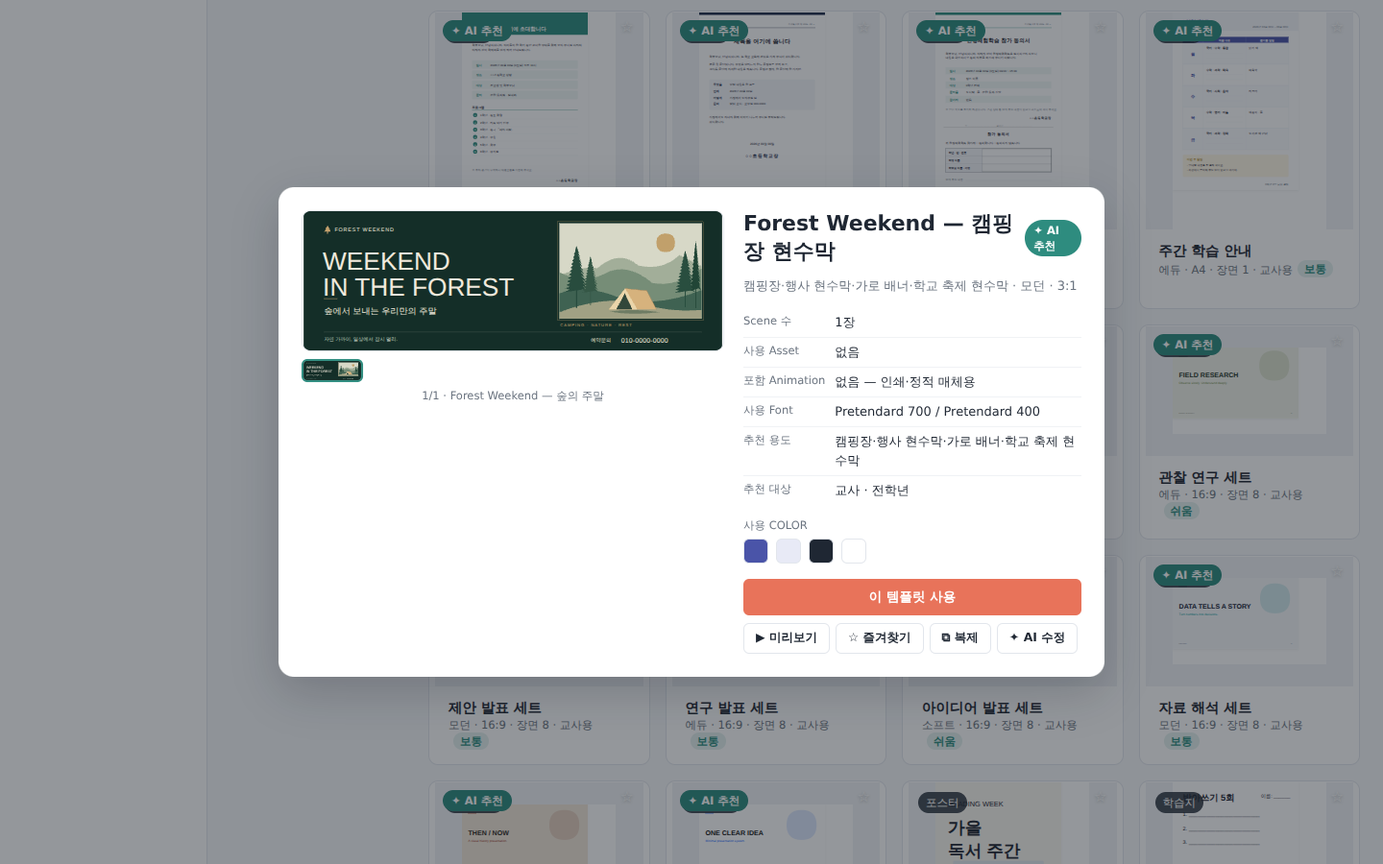
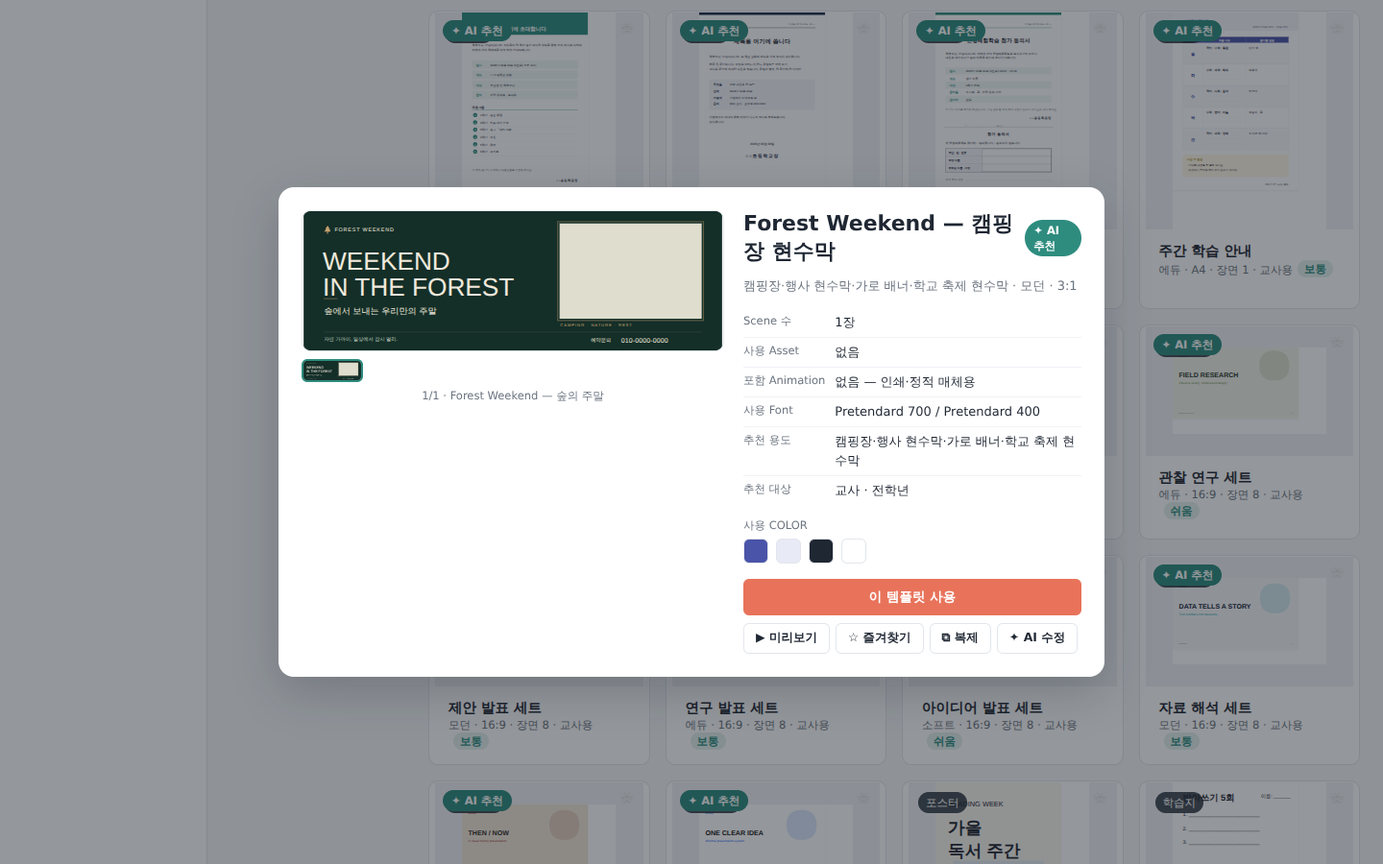
케이메이커 R154-2: Forest Weekend 기본 사진(forest-camp-dusk.jpg, 준호 제공) — 패키지 상대 src 지원·풍경 조각 기본 숨김(레이어 👁 복구); test-round154 38/38 · shot154 13/13

Changed region(s): [[0.4062, 0.2489, 0.5312, 0.3733], [0.25, 0.4044, 0.2812, 0.4356]]

diff --git a/maker-playground/data/tplpkg-baked.js b/maker-playground/data/tplpkg-baked.js
@@ -5,7 +5,7 @@
    로드되면 Template Engine(MK_TPL.register)에 등록돼 Templates·홈·만들기에 선다.
    ============================================================ */
 window.MK_TPLPKG_BAKED = (() => {
-  const ROWS = [{"src":{"templateId":"pkg-forest-weekend-banner","title":"Forest Weekend — 캠핑장 현수막","description":"캠핑장·행사 현수막·가로 배너·학교 축제 현수막","contentType":"poster","category":"포스터","style":"모던","styleEn":"Premium","ratio":"3:1","difficulty":"쉬움","targetUser":"teacher","gradeRange":"전학년","uses":"캠핑장·행사 현수막·가로 배너·학교 축제 현수막","tags":["현수막","캠핑","배너","3:1"],"recent":false,"pkg":{"dir":"forest-weekend","schema":"kedu.editable-template/1.0","version":"1.0.0","preview":"/maker-playground/assets/tplpkg/forest-weekend/preview.png"},"scenes":[{"id":"s1","name":"Forest Weekend — 숲의 주말","width":3000,"height":1000,"duration":5,"background":"#142E28","transition":"fade","order":0,"elements":[{"kind":"image","x":0,"y":0,"w":100,"h":100,"label":"배경 · 숲색","aid":"background","fill":"#142E28"},{"kind":"image","x":61.17,"y":8.8,"w":34,"h":68.4,"label":"사진 · 클릭하여 교체","aid":"photo-placeholder","role":"photo-slot","fill":"#DFDDCD","fit":"cover"},{"kind":"image","x":61.17,"y":8.8,"w":34,"h":68.4,"label":"풍경 · 하늘","aid":"landscape-sky","fallbackFor":"photo-placeholder","grp":"g-forest-weekend-banner-photo-placeholder","fill":"#D7D8C7"},{"kind":"image","x":84.33,"y":16,"w":4.47,"h":13.4,"label":"풍경 · 햇빛","aid":"landscape-sun","fallbackFor":"photo-placeholder","grp":"g-forest-weekend-banner-photo-placeholder","fill":"#C1A06B","radius":999},{"kind":"vector","x":61.17,"y":30,"w":34,"h":47.2,"label":"풍경 · 먼 능선","aid":"mountains-far","fallbackFor":"photo-placeholder","grp":"g-forest-weekend-banner-photo-placeholder","role":"decor","vec":{"vb":[0,0,1020,472],"body":"<g><path d=\"M0 160 Q180 90 270 110 Q430 -30 565 90 Q740 130 860 15 L1020 95 L1020 472 L0 472 Z\" fill=\"#A2AE99\"/></g>","defs":"","pfx":""}},{"kind":"vector","x":61.17,"y":38.5,"w":34,"h":38.7,"label":"풍경 · 중간 능선","aid":"mountains-mid","fallbackFor":"photo-placeholder","grp":"g-forest-weekend-banner-photo-placeholder","role":"decor","vec":{"vb":[0,0,1020,387],"body":"<g><path d=\"M0 55 Q185 140 320 65 Q480 -25 665 130 Q835 165 1020 25 L1020 387 L0 387 Z\" fill=\"#768D77\"/></g>","defs":"","pfx":""}},{"kind":"vector","x":61.17,"y":52.6,"w":34,"h":24.6,"label":"풍경 · 가까운 언덕","aid":"mountains-near","fallbackFor":"photo-placeholder","grp":"g-forest-weekend-banner-photo-placeholder","role":"decor","vec":{"vb":[0,0,1020,246],"body":"<g><path d=\"M0 65 Q140 3 350 67 Q650 190 1020 40 L1020 246 L0 246 Z\" fill=\"#3F6252\"/></g>","defs":"","pfx":""}},{"kind":"vector","x":61.17,"y":63.4,"w":34,"h":13.8,"label":"풍경 · 캠핑 자리","aid":"meadow","fallbackFor":"photo-placeholder","grp":"g-forest-weekend-banner-photo-placeholder","role":"decor","vec":{"vb":[0,0,1020,138],"body":"<g><path d=\"M0 91 Q310 -27 560 22 Q790 97 1020 75 L1020 138 L0 138 Z\" fill=\"#A1A184\"/></g>","defs":"","pfx":""}},{"kind":"vector","x":62.33,"y":25,"w":5.83,"h":44.5,"label":"풍경 · 소나무 1","aid":"pine-1","fallbackFor":"photo-placeholder","grp":"g-forest-weekend-banner-photo-placeholder","role":"decor","vec":{"vb":[0,0,175,445],"body":"<g><path d=\"M84.35 151.3 L90.65 151.3 L91.875 445 L83.125 445 Z\" fill=\"#284C3E\"/><path d=\"M87.50 0.00 L81.88 13.80 L77.81 32.04 L77.37 38.72 L70.03 56.96 L73.20 63.64 L62.84 81.88 L69.24 88.56 L56.01 106.80 L65.42 113.48 L49.44 131.72 L61.72 138.40 L43.06 156.64 L58.11 163.31 L36.83 181.56 L54.58 188.24 L30.74 206.48 L51.12 213.16 L24.77 231.40 L47.71 238.08 L18.89 256.32 L44.35 263.00 L13.10 281.24 L41.04 287.92 L7.39 306.16 L37.77 312.83 L1.75 331.08 L134.66 312.39 L166.23 327.52 L131.56 287.47 L162.59 302.60 L128.42 262.55 L155.83 277.68 L125.24 237.63 L154.83 252.76 L122.00 212.71 L148.14 227.84 L118.72 187.79 L141.76 202.92 L115.37 162.87 L134.45 178.00 L111.94 137.95 L130.29 153.08 L108.43 113.03 L123.88 128.16 L104.82 88.11 L117.47 103.24 L101.06 63.19 L111.99 78.32 L97.11 38.27 L104.28 53.40 L92.83 13.35 L96.71 28.48 Z\" fill=\"#284C3E\"/></g>","defs":"","pfx":""}},{"kind":"vector","x":66.5,"y":32.6,"w":4.17,"h":35,"label":"풍경 · 소나무 2","aid":"pine-2","fallbackFor":"photo-placeholder","grp":"g-forest-weekend-banner-photo-placeholder","role":"decor","vec":{"vb":[0,0,125,350],"body":"<g><path d=\"M60.25 119.00000000000001 L64.75 119.00000000000001 L65.625 350 L59.375 350 Z\" fill=\"#355746\"/><path d=\"M62.50 0.00 L58.49 10.85 L55.58 25.20 L55.26 30.45 L50.02 44.80 L52.29 50.05 L44.89 64.40 L49.46 69.65 L40.01 84.00 L46.73 89.25 L35.31 103.60 L44.09 108.85 L30.75 123.20 L41.51 128.45 L26.31 142.80 L38.99 148.05 L21.96 162.40 L36.51 167.65 L17.69 182.00 L34.08 187.25 L13.49 201.60 L31.68 206.85 L9.36 221.20 L29.31 226.45 L5.28 240.80 L26.98 246.05 L1.25 260.40 L96.19 245.70 L119.57 257.60 L93.97 226.10 L115.55 238.00 L91.73 206.50 L111.14 218.40 L89.45 186.90 L109.43 198.80 L87.14 167.30 L103.34 179.20 L84.80 147.70 L99.97 159.60 L82.40 128.10 L97.44 140.00 L79.96 108.50 L93.26 120.40 L77.45 88.90 L89.60 100.80 L74.87 69.30 L84.95 81.20 L72.19 49.70 L78.59 61.60 L69.36 30.10 L74.63 42.00 L66.31 10.50 L69.30 22.40 Z\" fill=\"#355746\"/></g>","defs":"","pfx":""}},{"kind":"vector","x":88.67,"y":28.5,"w":5.13,"h":40.5,"label":"풍경 · 소나무 3","aid":"pine-3","fallbackFor":"photo-placeholder","grp":"g-forest-weekend-banner-photo-placeholder","role":"decor","vec":{"vb":[0,0,154,405],"body":"<g><path d=\"M74.228 137.70000000000002 L79.772 137.70000000000002 L80.85 405 L73.15 405 Z\" fill=\"#294E3F\"/><path d=\"M77.00 0.00 L72.05 12.55 L68.47 29.16 L68.08 35.23 L61.63 51.84 L64.42 57.92 L55.30 74.52 L60.93 80.59 L49.29 97.20 L57.57 103.28 L43.50 119.88 L54.32 125.96 L37.89 142.56 L51.14 148.63 L32.41 165.24 L48.03 171.31 L27.06 187.92 L44.98 194.00 L21.80 210.60 L41.98 216.68 L16.62 233.28 L39.03 239.36 L11.53 255.96 L36.11 262.04 L6.50 278.64 L33.23 284.72 L1.54 301.32 L118.50 284.31 L151.37 298.08 L115.77 261.63 L147.47 275.40 L113.01 238.95 L142.46 252.72 L110.21 216.27 L133.45 230.04 L107.36 193.59 L129.51 207.36 L104.47 170.91 L125.43 184.68 L101.52 148.23 L119.58 162.00 L98.51 125.55 L114.84 139.32 L95.42 102.87 L109.05 116.64 L92.24 80.19 L104.32 93.96 L88.93 57.51 L97.61 71.28 L85.45 34.83 L91.63 48.60 L81.69 12.15 L84.78 25.92 Z\" fill=\"#294E3F\"/></g>","defs":"","pfx":""}},{"kind":"vector","x":92.33,"y":21.6,"w":2.83,"h":48,"label":"풍경 · 소나무 4","aid":"pine-4","fallbackFor":"photo-placeholder","grp":"g-forest-weekend-banner-photo-placeholder","role":"decor","vec":{"vb":[0,0,85,480],"body":"<g><path d=\"M40.97 163.20000000000002 L44.03 163.20000000000002 L44.625 480 L40.375 480 Z\" fill=\"#214536\"/><path d=\"M42.50 0.00 L39.77 14.88 L37.79 34.56 L37.58 41.76 L34.02 61.44 L35.55 68.64 L30.52 88.32 L33.63 95.52 L27.21 115.20 L31.78 122.40 L24.01 142.08 L29.98 149.28 L20.91 168.96 L28.23 176.16 L17.89 195.84 L26.51 203.04 L14.93 222.72 L24.83 229.92 L12.03 249.60 L23.17 256.80 L9.18 276.48 L21.54 283.68 L6.36 303.36 L19.93 310.56 L3.59 330.24 L18.34 337.44 L0.85 357.12 L65.41 336.96 L81.19 353.28 L63.90 310.08 L77.91 326.40 L62.38 283.20 L78.14 299.52 L60.83 256.32 L75.70 272.64 L59.26 229.44 L71.29 245.76 L57.66 202.56 L69.69 218.88 L56.04 175.68 L65.78 192.00 L54.37 148.80 L63.63 165.12 L52.67 121.92 L59.44 138.24 L50.91 95.04 L56.82 111.36 L49.09 68.16 L53.65 84.48 L47.17 41.28 L50.46 57.60 L45.09 14.40 L47.08 30.72 Z\" fill=\"#214536\"/></g>","defs":"","pfx":""}},{"kind":"vector","x":73.17,"y":70.5,"w":12,"h":3,"label":"풍경 · 텐트 그림자","aid":"tent-shadow","fallbackFor":"photo-placeholder","grp":"g-forest-weekend-banner-photo-placeholder","role":"decor","vec":{"vb":[0,0,360,30],"body":"<g><path d=\"M0 16 Q160 -10 360 20 Q155 45 0 16 Z\" fill=\"#6E7C64\"/></g>","defs":"","pfx":""}},{"kind":"vector","x":73,"y":55.5,"w":11.33,"h":16,"label":"풍경 · 텐트 천","aid":"tent-roof","fallbackFor":"photo-placeholder","grp":"g-forest-weekend-banner-photo-placeholder","role":"decor","vec":{"vb":[0,0,340,160],"body":"<g><path d=\"M0 150 L116 0 L271 16 L340 150 Z\" fill=\"#D6B27D\"/></g>","defs":"","pfx":""}},{"kind":"vector","x":73,"y":55.5,"w":6.77,"h":16,"label":"풍경 · 텐트 전면","aid":"tent-front","fallbackFor":"photo-placeholder","grp":"g-forest-weekend-banner-photo-placeholder","role":"decor","vec":{"vb":[0,0,203,160],"body":"<g><path d=\"M0 150 L116 0 L203 150 Z\" fill=\"#EAD5AA\"/></g>","defs":"","pfx":""}},{"kind":"vector","x":74.73,"y":59,"w":3.83,"h":11.5,"label":"풍경 · 텐트 입구","aid":"tent-door","fallbackFor":"photo-placeholder","grp":"g-forest-weekend-banner-photo-placeholder","role":"decor","vec":{"vb":[0,0,115,115],"body":"<g><path d=\"M0 115 L62 0 L115 115 Z\" fill=\"#31473A\"/></g>","defs":"","pfx":""}},{"kind":"vector","x":76.87,"y":55.5,"w":7.47,"h":15,"label":"풍경 · 텐트 솔기","aid":"tent-seam","fallbackFor":"photo-placeholder","grp":"g-forest-weekend-banner-photo-placeholder","role":"decor","vec":{"vb":[0,0,224,150],"body":"<g><path d=\"M0 0 L155 16 L224 150\" fill=\"none\" stroke=\"#AB895D\" stroke-width=\"3\"/></g>","defs":"","pfx":""}},{"kind":"shape","x":60.73,"y":7.5,"w":34.87,"h":71,"label":"사진 · 테두리","aid":"photo-border","shape":"rect","fill":"none","stroke":"#C5A16D","strokeWidth":2},{"kind":"vector","x":4.83,"y":10.5,"w":1.67,"h":5.8,"label":"장식 · 숲 심볼","aid":"brand-mark","role":"decor","vec":{"vb":[0,0,50,58],"body":"<g><path d=\"M25 0 L43 22 L34 22 L50 42 L28 42 L28 58 L22 58 L22 42 L0 42 L16 22 L7 22 Z\" fill=\"#C5A16D\"/></g>","defs":"","pfx":""}},{"kind":"text","x":7.37,"y":11.2,"w":45,"h":5.6,"label":"캠핑장 이름","aid":"brand","text":"FOREST WEEKEND","size":3.7,"weight":400,"color":"#F1EADC","align":"left","font":"Noto Sans KR","letterSpacing":0.16,"lineHeight":1.04},{"kind":"text","x":4.53,"y":25.8,"w":52.5,"h":41.4,"label":"메인 제목","aid":"title","text":"WEEKEND\nIN THE FOREST","size":18.1,"weight":400,"color":"#F1EADC","align":"left","font":"Cormorant Garamond","lineHeight":1.04},{"kind":"text","x":4.83,"y":68,"w":51.67,"h":9,"label":"한글 소개","aid":"subtitle","text":"숲에서 보내는 우리만의 주말","size":6.3,"weight":400,"color":"#F1EADC","align":"left","font":"Noto Sans KR","lineHeight":1.04},{"kind":"image","x":4.83,"y":62.7,"w":3.17,"h":0.3,"label":"장식 · 짧은 선","aid":"accent-line","fill":"#C5A16D"},{"kind":"text","x":61.33,"y":80.2,"w":33.83,"h":4.1,"label":"사진 아래 문구","aid":"photo-caption","text":"CAMPING · NATURE · REST","size":2.9,"weight":400,"color":"#C5A16D","align":"left","font":"Noto Sans KR","letterSpacing":0.21,"lineHeight":1.04},{"kind":"image","x":4.83,"y":86.6,"w":90.33,"h":0.2,"label":"하단 · 구분선","aid":"footer-line","fill":"#53675B"},{"kind":"text","x":4.83,"y":90,"w":36.67,"h":5.8,"label":"하단 안내 문구","aid":"footer-note","text":"자연 가까이, 일상에서 잠시 멀리.","size":3.6,"weight":400,"color":"#BCC8BB","align":"left","font":"Noto Sans KR","lineHeight":1.04},{"kind":"text","x":68.67,"y":90.6,"w":6.67,"h":5.8,"label":"예약 안내","aid":"reservation-label","text":"예약문의","size":3.6,"weight":400,"color":"#F1EADC","align":"left","font":"Noto Sans KR","lineHeight":1.04},{"kind":"text","x":75.93,"y":90,"w":19.33,"h":8.2,"label":"예약 전화번호","aid":"reservation-phone","text":"010-0000-0000","size":4.8,"weight":400,"color":"#F1EADC","align":"left","font":"Noto Sans KR","letterSpacing":0.02,"lineHeight":1.04}],"groups":{"g-forest-weekend-banner-photo-placeholder":{"name":"풍경 · 사진","aid":"photo-placeholder","kind":"asset","fallbackFor":"photo-placeholder"}}}]},"ov":{"styleId":"st-modern","animationId":"an-none","assetIds":[],"ai":{"recommended":true,"tags":["현수막","캠핑","배너","3:1"],"hints":["제목 두 줄은 영문 세리프 그대로, 한 줄 소개만 바꿔도 끝","오른쪽 사진 자리에 사진을 올리면 그려진 풍경은 자동으로 숨어요(레이어에서 다시 켤 수 있어요)"]}}}];
+  const ROWS = [{"src":{"templateId":"pkg-forest-weekend-banner","title":"Forest Weekend — 캠핑장 현수막","description":"캠핑장·행사 현수막·가로 배너·학교 축제 현수막","contentType":"poster","category":"포스터","style":"모던","styleEn":"Premium","ratio":"3:1","difficulty":"쉬움","targetUser":"teacher","gradeRange":"전학년","uses":"캠핑장·행사 현수막·가로 배너·학교 축제 현수막","tags":["현수막","캠핑","배너","3:1"],"recent":false,"pkg":{"dir":"forest-weekend","schema":"kedu.editable-template/1.0","version":"1.0.0","preview":"/maker-playground/assets/tplpkg/forest-weekend/preview.png"},"scenes":[{"id":"s1","name":"Forest Weekend — 숲의 주말","width":3000,"height":1000,"duration":5,"background":"#142E28","transition":"fade","order":0,"elements":[{"kind":"image","x":0,"y":0,"w":100,"h":100,"label":"배경 · 숲색","aid":"background","fill":"#142E28"},{"kind":"image","x":61.17,"y":8.8,"w":34,"h":68.4,"label":"사진 · 클릭하여 교체","aid":"photo-placeholder","role":"photo-slot","fill":"#DFDDCD","fit":"cover","src":"/maker-playground/assets/tplpkg/forest-weekend/assets/photos/forest-camp-dusk.jpg"},{"kind":"image","x":61.17,"y":8.8,"w":34,"h":68.4,"label":"풍경 · 하늘","aid":"landscape-sky","fallbackFor":"photo-placeholder","grp":"g-forest-weekend-banner-photo-placeholder","fill":"#D7D8C7","visible":false},{"kind":"image","x":84.33,"y":16,"w":4.47,"h":13.4,"label":"풍경 · 햇빛","aid":"landscape-sun","fallbackFor":"photo-placeholder","grp":"g-forest-weekend-banner-photo-placeholder","fill":"#C1A06B","radius":999,"visible":false},{"kind":"vector","x":61.17,"y":30,"w":34,"h":47.2,"label":"풍경 · 먼 능선","aid":"mountains-far","fallbackFor":"photo-placeholder","grp":"g-forest-weekend-banner-photo-placeholder","role":"decor","vec":{"vb":[0,0,1020,472],"body":"<g><path d=\"M0 160 Q180 90 270 110 Q430 -30 565 90 Q740 130 860 15 L1020 95 L1020 472 L0 472 Z\" fill=\"#A2AE99\"/></g>","defs":"","pfx":""},"visible":false},{"kind":"vector","x":61.17,"y":38.5,"w":34,"h":38.7,"label":"풍경 · 중간 능선","aid":"mountains-mid","fallbackFor":"photo-placeholder","grp":"g-forest-weekend-banner-photo-placeholder","role":"decor","vec":{"vb":[0,0,1020,387],"body":"<g><path d=\"M0 55 Q185 140 320 65 Q480 -25 665 130 Q835 165 1020 25 L1020 387 L0 387 Z\" fill=\"#768D77\"/></g>","defs":"","pfx":""},"visible":false},{"kind":"vector","x":61.17,"y":52.6,"w":34,"h":24.6,"label":"풍경 · 가까운 언덕","aid":"mountains-near","fallbackFor":"photo-placeholder","grp":"g-forest-weekend-banner-photo-placeholder","role":"decor","vec":{"vb":[0,0,1020,246],"body":"<g><path d=\"M0 65 Q140 3 350 67 Q650 190 1020 40 L1020 246 L0 246 Z\" fill=\"#3F6252\"/></g>","defs":"","pfx":""},"visible":false},{"kind":"vector","x":61.17,"y":63.4,"w":34,"h":13.8,"label":"풍경 · 캠핑 자리","aid":"meadow","fallbackFor":"photo-placeholder","grp":"g-forest-weekend-banner-photo-placeholder","role":"decor","vec":{"vb":[0,0,1020,138],"body":"<g><path d=\"M0 91 Q310 -27 560 22 Q790 97 1020 75 L1020 138 L0 138 Z\" fill=\"#A1A184\"/></g>","defs":"","pfx":""},"visible":false},{"kind":"vector","x":62.33,"y":25,"w":5.83,"h":44.5,"label":"풍경 · 소나무 1","aid":"pine-1","fallbackFor":"photo-placeholder","grp":"g-forest-weekend-banner-photo-placeholder","role":"decor","vec":{"vb":[0,0,175,445],"body":"<g><path d=\"M84.35 151.3 L90.65 151.3 L91.875 445 L83.125 445 Z\" fill=\"#284C3E\"/><path d=\"M87.50 0.00 L81.88 13.80 L77.81 32.04 L77.37 38.72 L70.03 56.96 L73.20 63.64 L62.84 81.88 L69.24 88.56 L56.01 106.80 L65.42 113.48 L49.44 131.72 L61.72 138.40 L43.06 156.64 L58.11 163.31 L36.83 181.56 L54.58 188.24 L30.74 206.48 L51.12 213.16 L24.77 231.40 L47.71 238.08 L18.89 256.32 L44.35 263.00 L13.10 281.24 L41.04 287.92 L7.39 306.16 L37.77 312.83 L1.75 331.08 L134.66 312.39 L166.23 327.52 L131.56 287.47 L162.59 302.60 L128.42 262.55 L155.83 277.68 L125.24 237.63 L154.83 252.76 L122.00 212.71 L148.14 227.84 L118.72 187.79 L141.76 202.92 L115.37 162.87 L134.45 178.00 L111.94 137.95 L130.29 153.08 L108.43 113.03 L123.88 128.16 L104.82 88.11 L117.47 103.24 L101.06 63.19 L111.99 78.32 L97.11 38.27 L104.28 53.40 L92.83 13.35 L96.71 28.48 Z\" fill=\"#284C3E\"/></g>","defs":"","pfx":""},"visible":false},{"kind":"vector","x":66.5,"y":32.6,"w":4.17,"h":35,"label":"풍경 · 소나무 2","aid":"pine-2","fallbackFor":"photo-placeholder","grp":"g-forest-weekend-banner-photo-placeholder","role":"decor","vec":{"vb":[0,0,125,350],"body":"<g><path d=\"M60.25 119.00000000000001 L64.75 119.00000000000001 L65.625 350 L59.375 350 Z\" fill=\"#355746\"/><path d=\"M62.50 0.00 L58.49 10.85 L55.58 25.20 L55.26 30.45 L50.02 44.80 L52.29 50.05 L44.89 64.40 L49.46 69.65 L40.01 84.00 L46.73 89.25 L35.31 103.60 L44.09 108.85 L30.75 123.20 L41.51 128.45 L26.31 142.80 L38.99 148.05 L21.96 162.40 L36.51 167.65 L17.69 182.00 L34.08 187.25 L13.49 201.60 L31.68 206.85 L9.36 221.20 L29.31 226.45 L5.28 240.80 L26.98 246.05 L1.25 260.40 L96.19 245.70 L119.57 257.60 L93.97 226.10 L115.55 238.00 L91.73 206.50 L111.14 218.40 L89.45 186.90 L109.43 198.80 L87.14 167.30 L103.34 179.20 L84.80 147.70 L99.97 159.60 L82.40 128.10 L97.44 140.00 L79.96 108.50 L93.26 120.40 L77.45 88.90 L89.60 100.80 L74.87 69.30 L84.95 81.20 L72.19 49.70 L78.59 61.60 L69.36 30.10 L74.63 42.00 L66.31 10.50 L69.30 22.40 Z\" fill=\"#355746\"/></g>","defs":"","pfx":""},"visible":false},{"kind":"vector","x":88.67,"y":28.5,"w":5.13,"h":40.5,"label":"풍경 · 소나무 3","aid":"pine-3","fallbackFor":"photo-placeholder","grp":"g-forest-weekend-banner-photo-placeholder","role":"decor","vec":{"vb":[0,0,154,405],"body":"<g><path d=\"M74.228 137.70000000000002 L79.772 137.70000000000002 L80.85 405 L73.15 405 Z\" fill=\"#294E3F\"/><path d=\"M77.00 0.00 L72.05 12.55 L68.47 29.16 L68.08 35.23 L61.63 51.84 L64.42 57.92 L55.30 74.52 L60.93 80.59 L49.29 97.20 L57.57 103.28 L43.50 119.88 L54.32 125.96 L37.89 142.56 L51.14 148.63 L32.41 165.24 L48.03 171.31 L27.06 187.92 L44.98 194.00 L21.80 210.60 L41.98 216.68 L16.62 233.28 L39.03 239.36 L11.53 255.96 L36.11 262.04 L6.50 278.64 L33.23 284.72 L1.54 301.32 L118.50 284.31 L151.37 298.08 L115.77 261.63 L147.47 275.40 L113.01 238.95 L142.46 252.72 L110.21 216.27 L133.45 230.04 L107.36 193.59 L129.51 207.36 L104.47 170.91 L125.43 184.68 L101.52 148.23 L119.58 162.00 L98.51 125.55 L114.84 139.32 L95.42 102.87 L109.05 116.64 L92.24 80.19 L104.32 93.96 L88.93 57.51 L97.61 71.28 L85.45 34.83 L91.63 48.60 L81.69 12.15 L84.78 25.92 Z\" fill=\"#294E3F\"/></g>","defs":"","pfx":""},"visible":false},{"kind":"vector","x":92.33,"y":21.6,"w":2.83,"h":48,"label":"풍경 · 소나무 4","aid":"pine-4","fallbackFor":"photo-placeholder","grp":"g-forest-weekend-banner-photo-placeholder","role":"decor","vec":{"vb":[0,0,85,480],"body":"<g><path d=\"M40.97 163.20000000000002 L44.03 163.20000000000002 L44.625 480 L40.375 480 Z\" fill=\"#214536\"/><path d=\"M42.50 0.00 L39.77 14.88 L37.79 34.56 L37.58 41.76 L34.02 61.44 L35.55 68.64 L30.52 88.32 L33.63 95.52 L27.21 115.20 L31.78 122.40 L24.01 142.08 L29.98 149.28 L20.91 168.96 L28.23 176.16 L17.89 195.84 L26.51 203.04 L14.93 222.72 L24.83 229.92 L12.03 249.60 L23.17 256.80 L9.18 276.48 L21.54 283.68 L6.36 303.36 L19.93 310.56 L3.59 330.24 L18.34 337.44 L0.85 357.12 L65.41 336.96 L81.19 353.28 L63.90 310.08 L77.91 326.40 L62.38 283.20 L78.14 299.52 L60.83 256.32 L75.70 272.64 L59.26 229.44 L71.29 245.76 L57.66 202.56 L69.69 218.88 L56.04 175.68 L65.78 192.00 L54.37 148.80 L63.63 165.12 L52.67 121.92 L59.44 138.24 L50.91 95.04 L56.82 111.36 L49.09 68.16 L53.65 84.48 L47.17 41.28 L50.46 57.60 L45.09 14.40 L47.08 30.72 Z\" fill=\"#214536\"/></g>","defs":"","pfx":""},"visible":false},{"kind":"vector","x":73.17,"y":70.5,"w":12,"h":3,"label":"풍경 · 텐트 그림자","aid":"tent-shadow","fallbackFor":"photo-placeholder","grp":"g-forest-weekend-banner-photo-placeholder","role":"decor","vec":{"vb":[0,0,360,30],"body":"<g><path d=\"M0 16 Q160 -10 360 20 Q155 45 0 16 Z\" fill=\"#6E7C64\"/></g>","defs":"","pfx":""},"visible":false},{"kind":"vector","x":73,"y":55.5,"w":11.33,"h":16,"label":"풍경 · 텐트 천","aid":"tent-roof","fallbackFor":"photo-placeholder","grp":"g-forest-weekend-banner-photo-placeholder","role":"decor","vec":{"vb":[0,0,340,160],"body":"<g><path d=\"M0 150 L116 0 L271 16 L340 150 Z\" fill=\"#D6B27D\"/></g>","defs":"","pfx":""},"visible":false},{"kind":"vector","x":73,"y":55.5,"w":6.77,"h":16,"label":"풍경 · 텐트 전면","aid":"tent-front","fallbackFor":"photo-placeholder","grp":"g-forest-weekend-banner-photo-placeholder","role":"decor","vec":{"vb":[0,0,203,160],"body":"<g><path d=\"M0 150 L116 0 L203 150 Z\" fill=\"#EAD5AA\"/></g>","defs":"","pfx":""},"visible":false},{"kind":"vector","x":74.73,"y":59,"w":3.83,"h":11.5,"label":"풍경 · 텐트 입구","aid":"tent-door","fallbackFor":"photo-placeholder","grp":"g-forest-weekend-banner-photo-placeholder","role":"decor","vec":{"vb":[0,0,115,115],"body":"<g><path d=\"M0 115 L62 0 L115 115 Z\" fill=\"#31473A\"/></g>","defs":"","pfx":""},"visible":false},{"kind":"vector","x":76.87,"y":55.5,"w":7.47,"h":15,"label":"풍경 · 텐트 솔기","aid":"tent-seam","fallbackFor":"photo-placeholder","grp":"g-forest-weekend-banner-photo-placeholder","role":"decor","vec":{"vb":[0,0,224,150],"body":"<g><path d=\"M0 0 L155 16 L224 150\" fill=\"none\" stroke=\"#AB895D\" stroke-width=\"3\"/></g>","defs":"","pfx":""},"visible":false},{"kind":"shape","x":60.73,"y":7.5,"w":34.87,"h":71,"label":"사진 · 테두리","aid":"photo-border","shape":"rect","fill":"none","stroke":"#C5A16D","strokeWidth":2},{"kind":"vector","x":4.83,"y":10.5,"w":1.67,"h":5.8,"label":"장식 · 숲 심볼","aid":"brand-mark","role":"decor","vec":{"vb":[0,0,50,58],"body":"<g><path d=\"M25 0 L43 22 L34 22 L50 42 L28 42 L28 58 L22 58 L22 42 L0 42 L16 22 L7 22 Z\" fill=\"#C5A16D\"/></g>","defs":"","pfx":""}},{"kind":"text","x":7.37,"y":11.2,"w":45,"h":5.6,"label":"캠핑장 이름","aid":"brand","text":"FOREST WEEKEND","size":3.7,"weight":400,"color":"#F1EADC","align":"left","font":"Noto Sans KR","letterSpacing":0.16,"lineHeight":1.04},{"kind":"text","x":4.53,"y":25.8,"w":52.5,"h":41.4,"label":"메인 제목","aid":"title","text":"WEEKEND\nIN THE FOREST","size":18.1,"weight":400,"color":"#F1EADC","align":"left","font":"Cormorant Garamond","lineHeight":1.04},{"kind":"text","x":4.83,"y":68,"w":51.67,"h":9,"label":"한글 소개","aid":"subtitle","text":"숲에서 보내는 우리만의 주말","size":6.3,"weight":400,"color":"#F1EADC","align":"left","font":"Noto Sans KR","lineHeight":1.04},{"kind":"image","x":4.83,"y":62.7,"w":3.17,"h":0.3,"label":"장식 · 짧은 선","aid":"accent-line","fill":"#C5A16D"},{"kind":"text","x":61.33,"y":80.2,"w":33.83,"h":4.1,"label":"사진 아래 문구","aid":"photo-caption","text":"CAMPING · NATURE · REST","size":2.9,"weight":400,"color":"#C5A16D","align":"left","font":"Noto Sans KR","letterSpacing":0.21,"lineHeight":1.04},{"kind":"image","x":4.83,"y":86.6,"w":90.33,"h":0.2,"label":"하단 · 구분선","aid":"footer-line","fill":"#53675B"},{"kind":"text","x":4.83,"y":90,"w":36.67,"h":5.8,"label":"하단 안내 문구","aid":"footer-note","text":"자연 가까이, 일상에서 잠시 멀리.","size":3.6,"weight":400,"color":"#BCC8BB","align":"left","font":"Noto Sans KR","lineHeight":1.04},{"kind":"text","x":68.67,"y":90.6,"w":6.67,"h":5.8,"label":"예약 안내","aid":"reservation-label","text":"예약문의","size":3.6,"weight":400,"color":"#F1EADC","align":"left","font":"Noto Sans KR","lineHeight":1.04},{"kind":"text","x":75.93,"y":90,"w":19.33,"h":8.2,"label":"예약 전화번호","aid":"reservation-phone","text":"010-0000-0000","size":4.8,"weight":400,"color":"#F1EADC","align":"left","font":"Noto Sans KR","letterSpacing":0.02,"lineHeight":1.04}],"groups":{"g-forest-weekend-banner-photo-placeholder":{"name":"풍경 · 사진","aid":"photo-placeholder","kind":"asset","fallbackFor":"photo-placeholder"}}}]},"ov":{"styleId":"st-modern","animationId":"an-none","assetIds":[],"ai":{"recommended":true,"tags":["현수막","캠핑","배너","3:1"],"hints":["제목 두 줄은 영문 세리프 그대로, 한 줄 소개만 바꿔도 끝","오른쪽 사진 자리에 사진을 올리면 그려진 풍경은 자동으로 숨어요(레이어에서 다시 켤 수 있어요)"]}}}];
   if (window.MK_TPLPKG) ROWS.forEach((r) => window.MK_TPLPKG.register(r.src, r.ov));
   else if (window.MK_TPL && window.MK_TPL.register) ROWS.forEach((r) => { try { window.MK_TPL.register(r.src, r.ov); } catch (_) {} });
   return ROWS;

diff --git a/maker-playground/data/tplpkg.js b/maker-playground/data/tplpkg.js
@@ -90,7 +90,8 @@ window.MK_TPLPKG = (() => {
     if (o.role === 'photo-slot' || o.type === 'image') {
       const el = { kind: 'image', ...base, role: 'photo-slot', fill: o.fill || '#EEEEEE', fit: o.fit || 'cover' };
       if (o.shape === 'ellipse') el.radius = 999;
-      if (o.src) el.src = o.src;
+      /* 기본 사진: 패키지 상대경로 → 패키지 폴더 절대 주소(/maker/ 와 /maker-playground/ 양쪽에서 같은 주소), data:·http 는 그대로 */
+      if (o.src) el.src = /^(data:|https?:|\/)/.test(o.src) ? o.src : (ctx.dir ? BASE + ctx.dir + '/' + o.src : o.src);
       return el;
     }
     if (o.type === 'vector') {
@@ -118,8 +119,10 @@ window.MK_TPLPKG = (() => {
     /* fallbackFor 가 같은 조각 = 그룹 하나 (슬롯 id 기준, 패키지 안에서 고정 이름) */
     const groups = {}, grpIds = {};
     const grpOf = (slot) => { if (!grpIds[slot]) { const g = 'g-' + slug(pkg.templateId || 'pkg') + '-' + slug(slot); grpIds[slot] = g; const so = objs.find((o) => o.id === slot); groups[g] = { name: '풍경 · ' + ((so && so.name) || slot).replace(/ ·.*$/, ''), aid: slot, kind: 'asset', fallbackFor: slot }; } return grpIds[slot]; };
-    const ctx = { grpOf, fontMap: opts.fontMap };
+    const ctx = { grpOf, fontMap: opts.fontMap, dir: opts.dir };
     const elements = objs.map((o) => toElement(o, W, H, ctx));
+    /* 계약: 슬롯에 사진(src)이 있으면 그 슬롯을 대신하던 풍경 조각은 보존한 채 숨긴다(레이어 👁 로 복구) */
+    elements.forEach((e) => { if (e.role === 'photo-slot' && e.src) hideFallbacks({ elements }, e); });
     /* 배경 = 캔버스 전체를 덮는 첫 단색 rect 가 있으면 그 색 (요소는 그대로 남긴다 — 편집 가능) */
     const bgObj = objs.find((o) => o.type === 'shape' && o.x <= 0 && o.y <= 0 && o.width >= W && o.height >= H && solid(o.fill));
     const scene = { id: opts.sceneId || 's1', name: opts.sceneName || pkg.name || '장면 1', width: W, height: H, duration: 5,
@@ -140,7 +143,7 @@ window.MK_TPLPKG = (() => {
       contentType: side.contentType || 'poster', category: side.category || '포스터', style: side.style || '모던', styleEn: side.styleEn || 'Premium',
       ratio, difficulty: side.difficulty || '보통', targetUser: side.targetUser || 'teacher', gradeRange: side.gradeRange || '전학년',
       uses: side.uses || '', tags, recent: false, pkg: { dir: opts.dir, schema: pkg.schema, version: pkg.version || meta.version || '', preview: opts.dir ? BASE + opts.dir + '/' + (meta.preview || 'preview.png') : null },
-      scenes: [toScene(pkg, { fontMap: side.fontMap })],
+      scenes: [toScene(pkg, { fontMap: side.fontMap, dir: opts.dir })],
     };
     const ov = { styleId: side.styleId || 'st-modern', animationId: 'an-none', assetIds: [],
       ai: { recommended: side.recommended !== false, tags, hints: side.hints || [] } };
